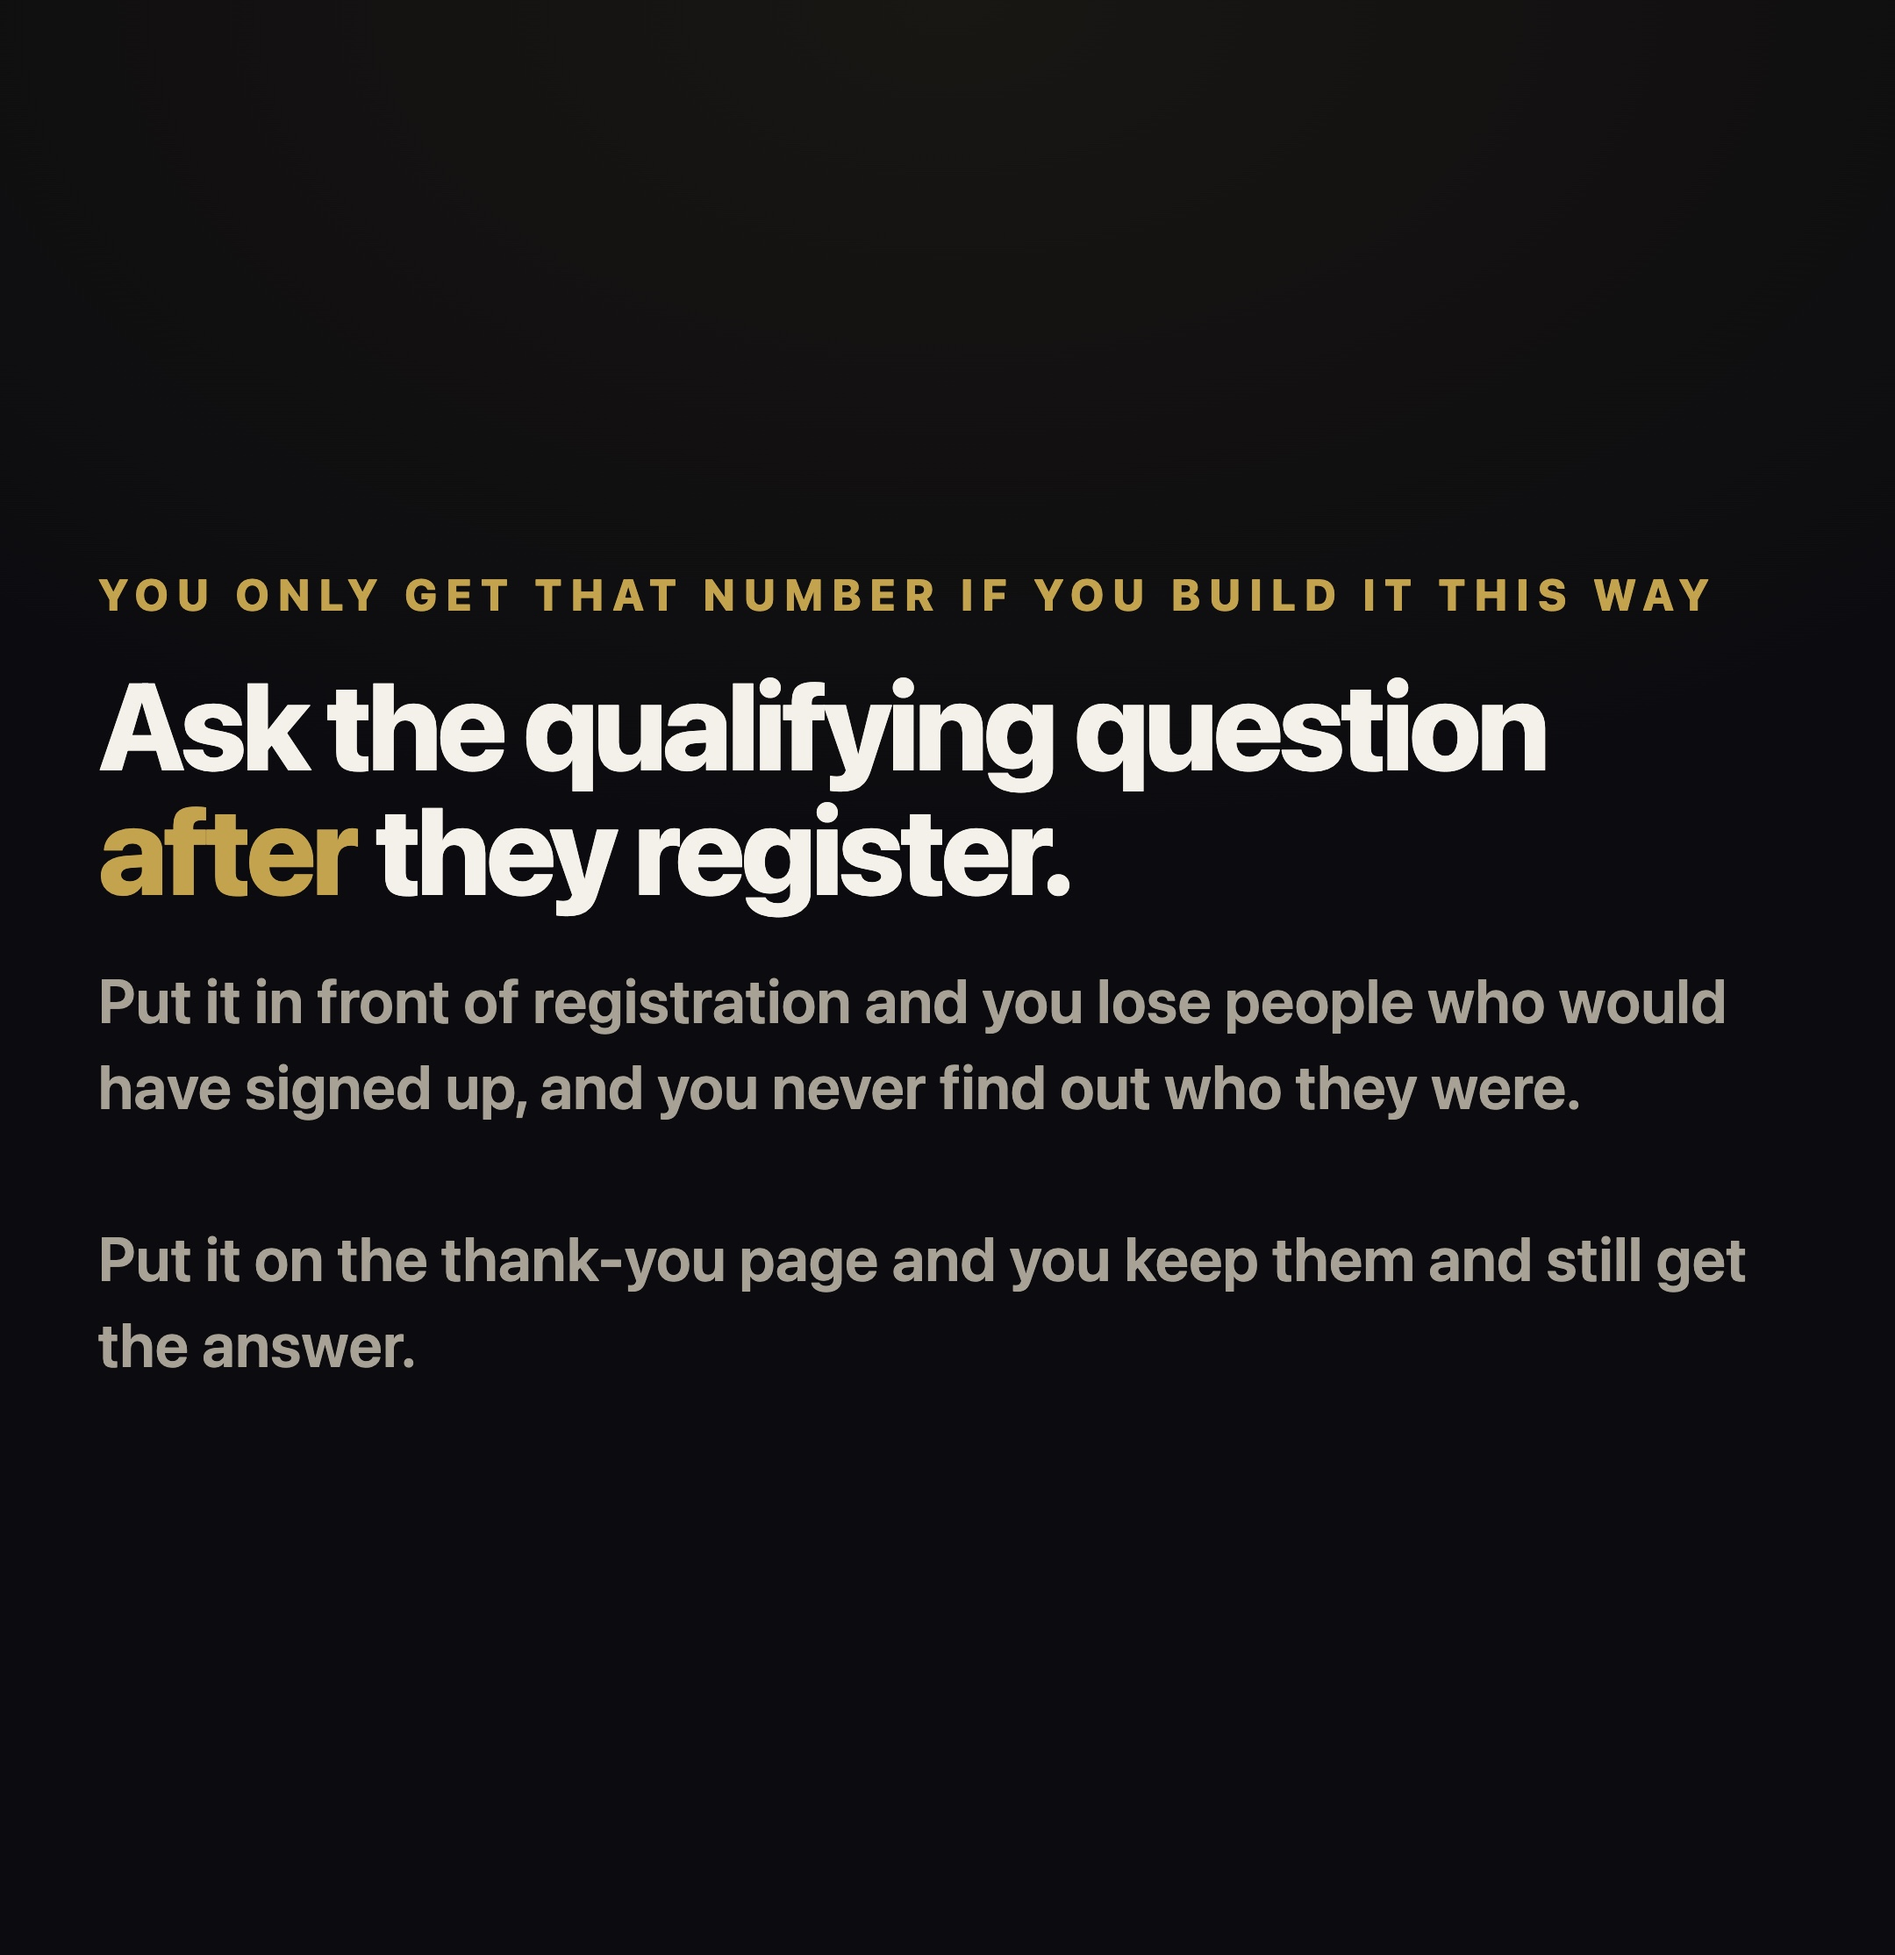
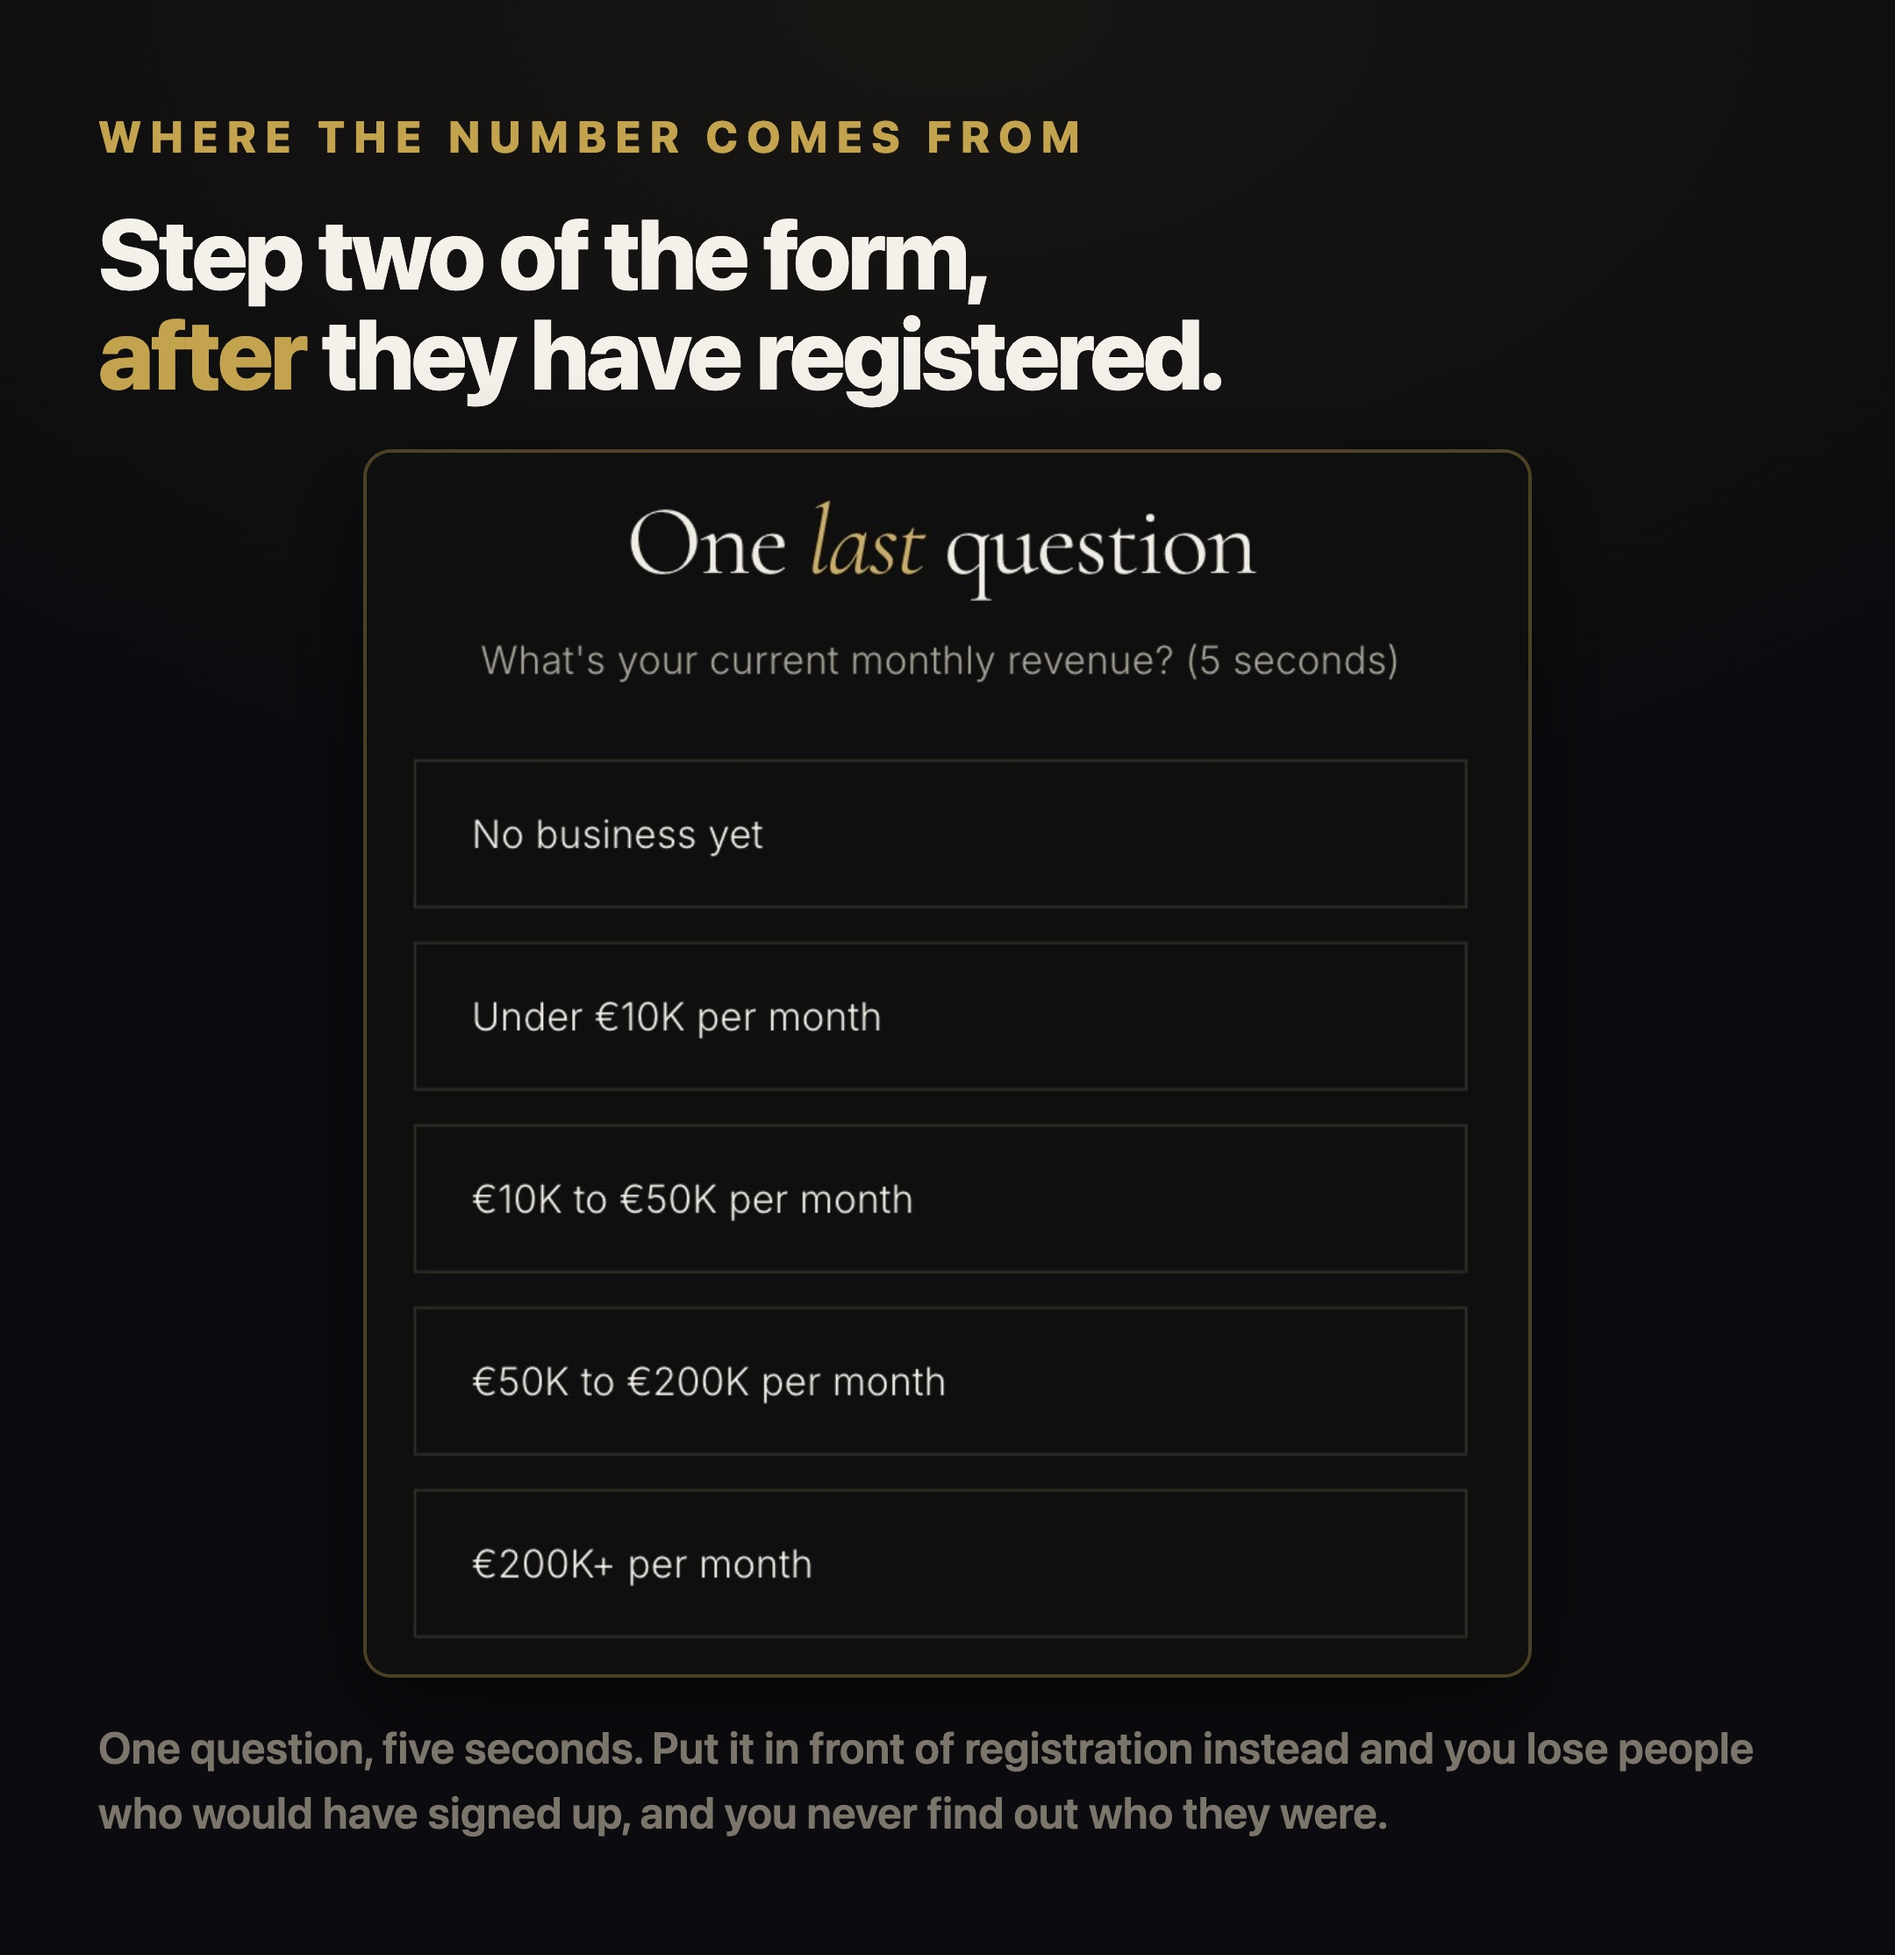
optin-rate slide 7: show the real step-two qualifier
Was text explaining the build rule. Now it is the actual step-two form
from the client funnel - one revenue question, five options - so the
viewer sees the mechanism instead of hearing it described.

New .fitshot rule caps the image by HEIGHT, not width, so a tall
screenshot can never run off the bottom of the board region. Verified:
all four edges of the rendered frame are dark, nothing is clipped.

Claude-Session: https://claude.ai/code/session_01JyUvhGiU74myjNDStH3gj5

diff --git a/index.html b/index.html
@@ -119,7 +119,7 @@
   // Beat 1 must put something checkable on screen, with a date.
   // Load a specific board with ?b=<slug>.
   // ---------------------------------------------------------------
-  var ASSET_V = '11';   // bump whenever a frame image is re-rendered
+  var ASSET_V = '12';   // bump whenever a frame image is re-rendered
 
   var BOARDS = {
 
@@ -223,7 +223,7 @@
         {img:'img/opt4.jpg', s:"Now here's the number nobody looks at. How many of those people actually qualified. Page A, seventy percent. Page B, thirty five. Page C, thirty. The page with the worst opt-in rate has more than double the qualified rate."},
         {img:'img/opt5.jpg', s:"So run it at a thousand visitors each. Page A opts in a hundred people, seventy of them qualify. Page B opts in a hundred and fifty, fifty three qualify. Page C opts in two hundred, sixty qualify. Page A has half the opt-in rate of Page C and it brings you more qualified people than either of them."},
         {img:'img/opt6.jpg', s:"That's why you track qualified opt-in rate, per page. Opt-in rate tells you how many came in. Qualified rate tells you how many were worth having. Only one of them decides what to switch off."},
-        {img:'img/opt7.jpg', s:"And you only get that number if you build the form right. Ask the qualifying question after they register, never in front of it. Put it in front and you lose people who would have signed up, and you never find out who they were."},
+        {img:'img/opt7.jpg', s:"And this is where that number comes from. Step two of the form, after they've already registered. One question, five seconds, what's your current monthly revenue. Put that in front of registration instead and you lose people who would have signed up, and you never find out who they were."},
         {img:'img/opt8.jpg', s:"Comment PAGES and I'll send you the SOP for the analytics page we build to track this."}
       ]
     },

diff --git a/frames-optinrate.html b/frames-optinrate.html
@@ -75,6 +75,10 @@
   .tbl .win.c{color:var(--gold)}
   .tbl .big{font-size:52px}
   .tbl > div:nth-last-child(-n+4){border-bottom:none}
+
+  .fitshot{margin:0 auto;border-radius:16px;overflow:hidden;border:2px solid rgba(196,163,79,.34);
+    box-shadow:0 20px 52px rgba(0,0,0,.6);max-height:700px;width:auto}
+  .fitshot img{display:block;height:700px;width:auto}
 </style>
 </head>
 <body>
@@ -133,18 +137,10 @@
 </div>
 
 <div class="f" id="o7">
-  <div class="eb">You only get that number if you build it this way</div>
-  <h1 class="sm">Ask the qualifying question <span>after</span> they register.</h1>
-  <div class="sub">Put it in front of registration and you lose people who would have signed up, and you never find out who they were.<br><br>Put it on the thank-you page and you keep them and still get the answer.</div>
+  <div class="eb">Where the number comes from</div>
+  <h1 class="xs" style="margin-bottom:26px">Step two of the form, <span>after</span> they have registered.</h1>
+  <div class="fitshot"><img src="img/step2-qualifier.jpg"></div>
+  <div class="note" style="margin-top:22px">One question, five seconds. Put it in front of registration instead and you lose people who would have signed up, and you never find out who they were.</div>
 </div>
 
-<div class="f" id="o8" style="justify-content:center">
-  <div style="border-radius:14px;overflow:hidden;border:2px solid rgba(196,163,79,.30);box-shadow:0 26px 70px rgba(0,0,0,.6)">
-    <img src="img/analytics-mock.jpg" style="display:block;width:100%">
-  </div>
-  <h1 class="sm" style="margin-top:44px">Comment <span>PAGES</span></h1>
-  <div class="sub" style="margin-top:18px">I will send you the SOP for the page that does this.</div>
-</div>
 
-</body>
-</html>
